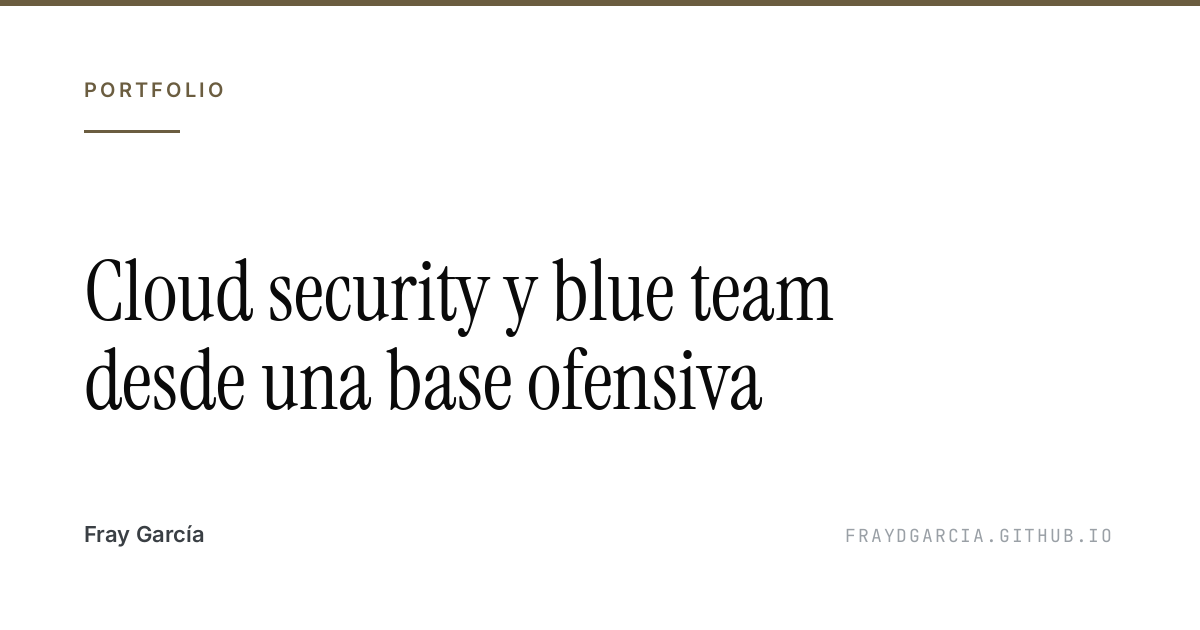
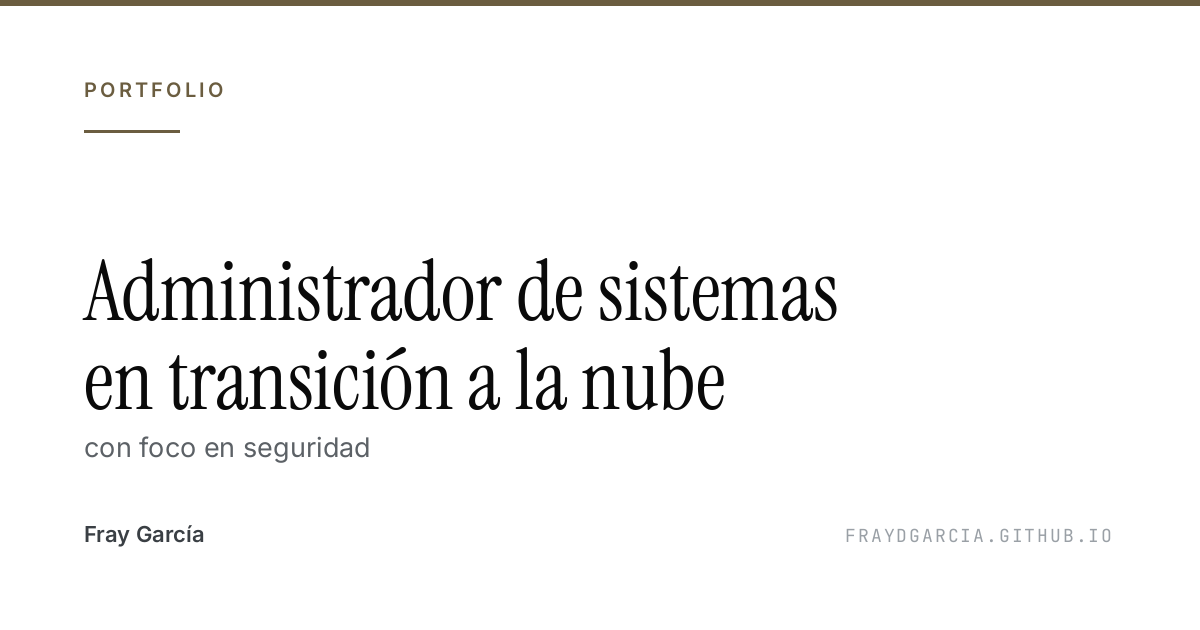
Reencuadrar la cabecera: sysadmin en transicion a la nube
Sustituye el rol declarado, que prometia una especializacion todavia en
construccion y auto-filtraba de ofertas de sistemas y cloud generalista.
El nuevo encuadre es amplio pero dirigido: base contratable hoy, movimiento
hacia la nube y la inclinacion a seguridad, sin cerrar puertas.

El rol pasa de versalitas espaciadas de 11px a subtitulo de 19px: era una
etiqueta y ahora es una frase, y en mayusculas espaciadas resultaba
ilegible. La ubicacion se separa en su propia linea.

Las secciones de cloud security y blue team no se tocan: son la direccion
y la evidencia. Generalizar tambien ahi dejaria el perfil sin rumbo.
Se actualizan la descripcion del sitio y la tarjeta social generica.

Changed region(s): [[0.0617, 0.3921, 0.7092, 0.5429], [0.0617, 0.5429, 0.6475, 0.6635], [0.0617, 0.6937, 0.3083, 0.7238]]

diff --git a/assets/css/main.css b/assets/css/main.css
@@ -47,9 +47,15 @@ header h1{
   font-size:clamp(38px,6vw,64px);letter-spacing:0;
   color:var(--ink);line-height:1.05;max-width:18ch;text-wrap:balance;
 }
+/* El rol es una frase, no una etiqueta: en versalitas espaciadas se volvía
+   ilegible, así que va compuesto como subtítulo y la ubicación se separa */
 header .role{
+  font-size:19px;font-weight:400;line-height:1.5;
+  color:var(--body);margin-top:20px;max-width:44ch;text-wrap:balance;
+}
+header .ubicacion{
   font-size:11px;letter-spacing:.16em;font-weight:600;
-  color:var(--accent);text-transform:uppercase;margin-top:18px;line-height:2;
+  color:var(--accent);text-transform:uppercase;margin-top:14px;
 }
 header .intro{
   font-weight:400;font-size:18px;color:var(--body);

diff --git a/index.html b/index.html
@@ -4,7 +4,8 @@ layout: default
 
   <header class="col">
     <h1>Fray García</h1>
-    <div class="role">Cloud Security y Blue Team &middot; Administrador de Sistemas<br>Lanzarote, España</div>
+    <p class="role">Administrador de sistemas en transición a la nube (AWS), con foco en seguridad.</p>
+    <p class="ubicacion">Lanzarote, España</p>
     <nav>
       <a href="https://github.com/fraydgarcia">GitHub</a><span class="sep">/</span>
       <a href="https://app.hackthebox.com/public/users/2163518">Hack The Box</a><span class="sep">/</span>
